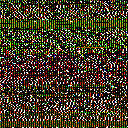
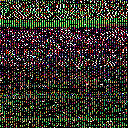
image modifications

diff --git a/main.js b/main.js
@@ -1,25 +1,37 @@
 var random = require("random");
 var ImageJS = require("imagejs");
 var counter = 0;
+var input = [];
 //var integers;
 var bitmap = new ImageJS.Bitmap({width: 128, height: 128});
 function randomCallback(integers){
 // Prints row 0, column 0
-    console.log(integers);
-    /*for(var i = 0 ; i < 10; i++){
-        for (var j = 0; j < 10; j++) {
-            bitmap.setPixel(i,j, integers[++counter],integers[++counter],integers[++counter],integers[++counter]);
+    //console.log(integers);
+    for(var m = 0; m < 1000; m++){
+        for(var k = 0; k < integers.length; k++){
+            input[counter] = integers[k];
+            counter++;
         }
-    }*/
+    }
+    //console.log(input.length);
+    counter = 0;
+    for(var i = 0 ; i < 128; i++){
+        for (var j = 0; j < 128; j++) {
+            var temp = integers[counter];
+            var color = {r: temp, g: temp, b: temp};
+            bitmap.setPixel(i,j,color);
+            counter++;
+        }
+    }
 }
 var options = {
 	secure: true, // Make the request secure
-    num: 10000,      // Get 10 integers
+    num: 100,      // Get 10 integers
     min: 0,     // Minimum of -10
     max: 256,      // Maximum of 10
-    col: 3,       // 2 columns
+    col: 0,       // 2 columns
     base: 10,     // Use Base 16
-    rnd: "id.123" // Which set of random numbers to use
+    rnd: "new" // Which set of random numbers to use
 };
 function errorCallback(type,code,string){
     console.log("RANDOM.ORG Error: Type: "+type+", Status Code: "+code+", Response Data: "+string);
@@ -27,27 +39,7 @@ function errorCallback(type,code,string){
 random.generateIntegers(randomCallback,options,errorCallback);
 
 
- 
-// Create a bitmap filled with green 
-//var greenBitmap = new ImageJS.Bitmap({width: 100, height: 100, color: {r: 255, g: 255, b: 255, a: 255});
- 
-// Copy a bitmap 
-//var copy = new ImageJS.Bitmap(otherBitmap);
- 
-// Create a bitmap and attach to supplied data structure 
-/*var attachedBitmap = new ImageJS.Bitmap({
-    width: 100,
-    height: 100,
-    data: new Buffer(4 * 100 * 100)
-});*/
- 
-// Create an empty (null) bitmap, ready for reading from file or stream 
-//var nullBitmap = new ImageJS.Bitmap();
-//console.log(bitmap);
-
-
-
-return bitmap.writeFile("image.jpg", { quality:75 })
+return bitmap.writeFile("image.jpg", { quality:90 })
     .then(function() {
         // bitmap has been saved 
 });
